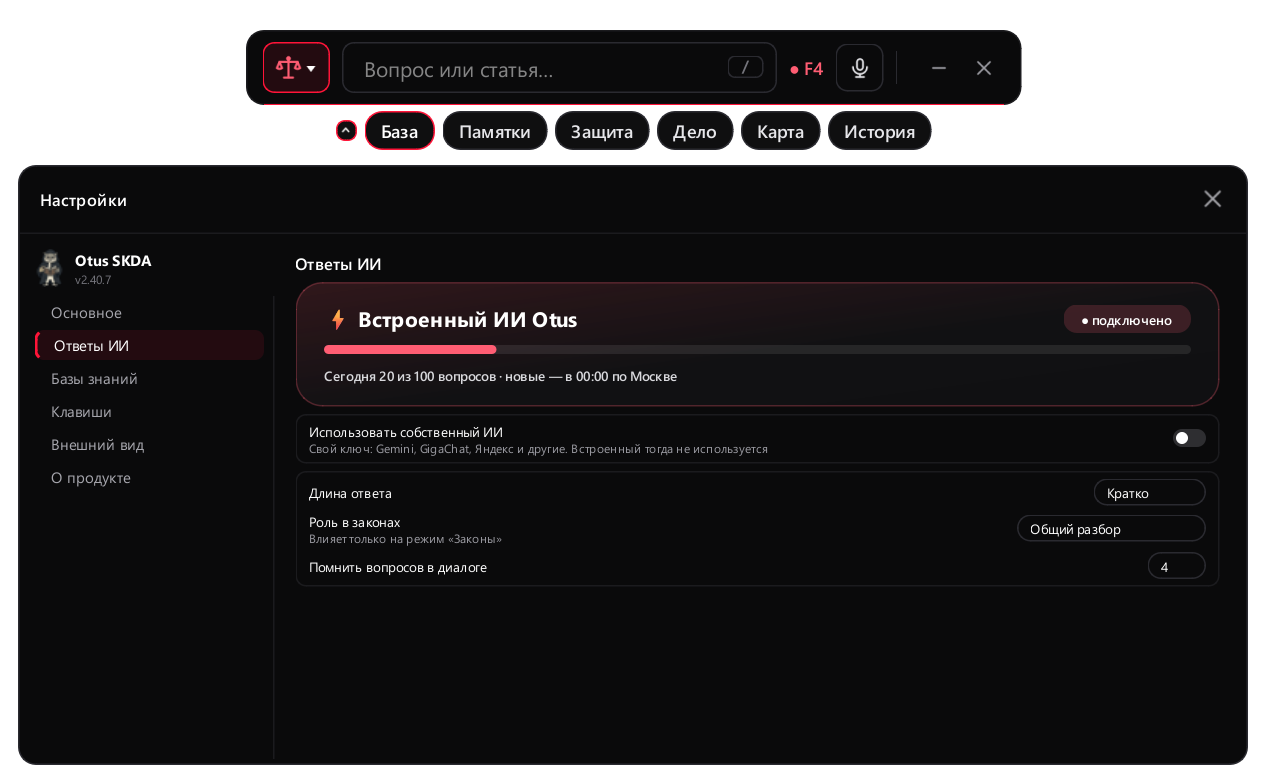
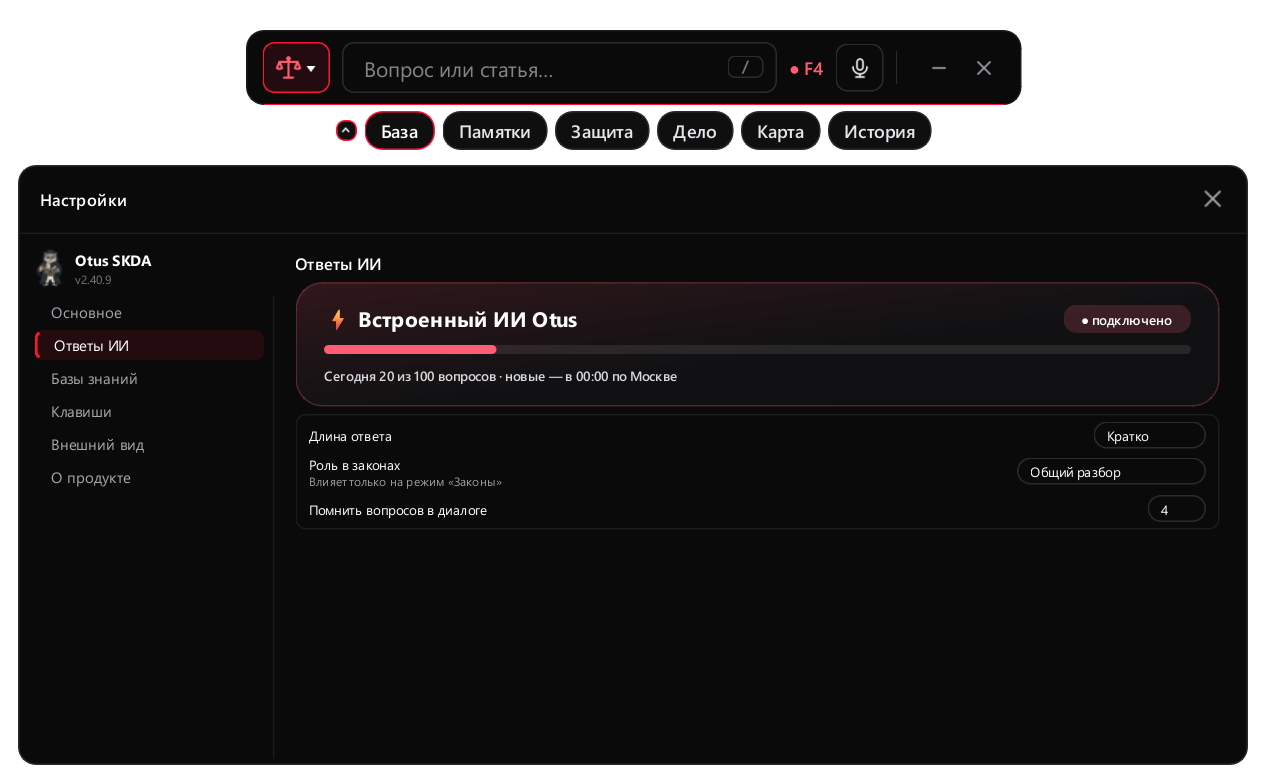
README: только встроенный ИИ, без ключей (2.40.9)
Свой ИИ и ИИ-ключи убраны из программы: Otus отвечает через встроенный ИИ,
достаточно войти через Discord. Убраны рычажок «собственный ИИ» и запасной ИИ;
новые скриншоты «Первых шагов» и настроек ИИ.

Changed region(s): [[0.2464, 0.5517, 0.5853, 0.7356], [0.8009, 0.5211, 0.955, 0.705]]

diff --git a/README.md b/README.md
@@ -22,7 +22,7 @@ Otus знает законы, уставы ведомств и правила п
 
 ## ✨ Возможности
 
-- **Встроенный ИИ без ключей** — вошёл через Discord, и Otus отвечает. Свой ИИ (Gemini, GigaChat и другие) — по желанию, одним рычажком.
+- **Встроенный ИИ без ключей** — вошёл через Discord, и Otus отвечает. Ключ ИИ не нужен.
 - **Ответ по законам штата** — со ссылками на статьи: клик, и статья открыта. На «можно ли…» первой строкой: *Можно / Нельзя / Зависит*.
 - **Голосом, прямо в игре** — по зажатой клавише (по умолчанию F4).
 - **Памятки** — шпаргалка отыгровок /me и /do (клик, и строка в буфере обмена), задержание по шагам, права задержанного, обыск, сроки, памятка адвоката.
@@ -76,7 +76,6 @@ Otus знает законы, уставы ведомств и правила п
 - **Otus ничего не печатает в игру и не трогает её файлы.** Он только показывает окно поверх игры;
   текст ты сам вставляешь через Ctrl+V.
 - **Ключей ИИ в программе нет.** Встроенный ИИ работает через сервер Otus, ключи хранятся только там.
-- **Свой ИИ** (если включишь) — ключ хранится только на твоём компьютере и уходит только в выбранный ИИ.
 - **Пароль от форума программа не видит** — на форум ты входишь сам в обычном окне браузера.
 - **Обновления скачиваются только отсюда**, из релизов этого репозитория, и проверяются по
   контрольной сумме перед установкой.
@@ -94,9 +93,7 @@ Otus знает законы, уставы ведомств и правила п
 
 <details><summary><b>Нужен ли ключ или платный ИИ?</b></summary>
 
-Нет. Встроенный ИИ бесплатный, ключ не нужен — достаточно войти через Discord. Хочешь свой — включи
-**«Использовать собственный ИИ»** в ⚙ → Ответы ИИ: Gemini, GigaChat (Сбер), GLM и другие, тоже бесплатно.
-Из России — GigaChat или GLM, без VPN.
+Нет. Встроенный ИИ бесплатный, ключ не нужен — достаточно войти через Discord.
 </details>
 
 <details><summary><b>Сколько можно спрашивать?</b></summary>
@@ -107,8 +104,7 @@ Otus знает законы, уставы ведомств и правила п
 
 <details><summary><b>Что, если ИИ не отвечает?</b></summary>
 
-Повтори вопрос через минуту. Со своим ИИ можно выбрать **запасной** в ⚙ → Ответы ИИ — тогда Otus
-переключится на него сам.
+Повтори вопрос через минуту.
 </details>
 
 <details><summary><b>Окно видно на стриме?</b></summary>
